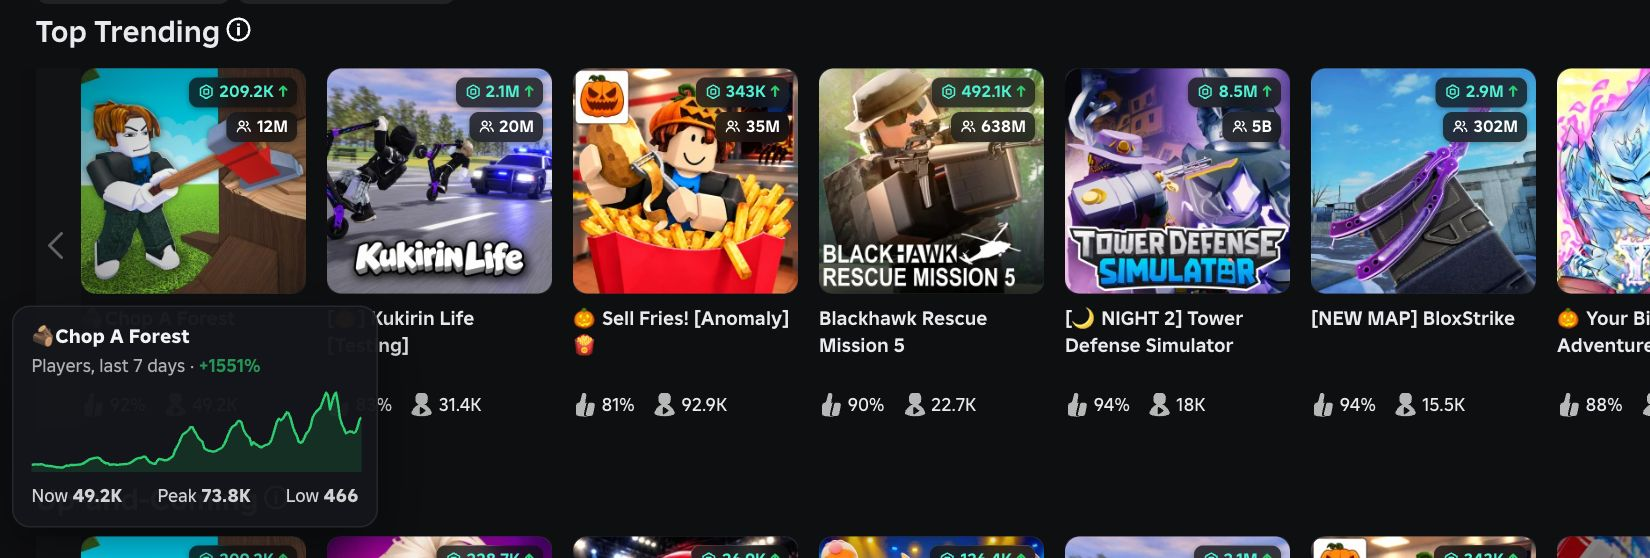
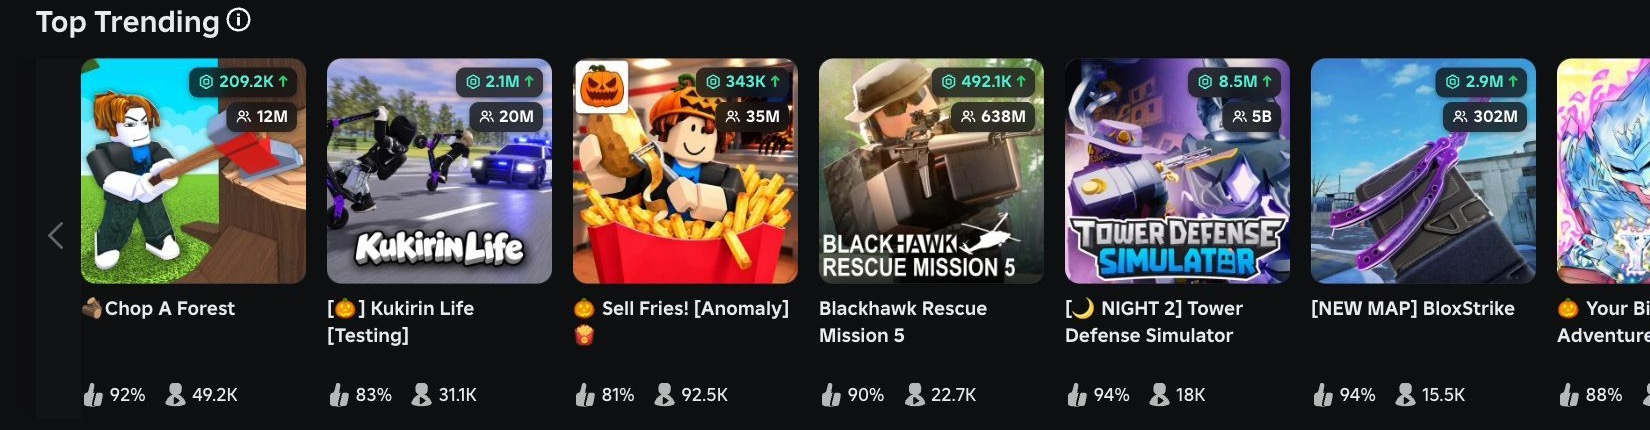
Game card graph: open it from the stats pills and show it beside the card, so Roblox's hover card stays usable

diff --git a/extensions/theme/stats.js b/extensions/theme/stats.js
@@ -1,6 +1,6 @@
 /* Game stats on roblox.com from Creator Exchange (creatorexchange.io): estimated
    revenue and its trend plus total visits on every game card, and a stats strip on
-   game pages, a 7-day player sparkline when you hover a card, a sort control on
+   game pages, a 7-day player graph when you point at a card's stats, a sort control on
    Charts, and a watchlist (star on the game page, listed in the popup). The numbers
    come from background.js. chrome.storage.sync: { stats, sort, watch: [{ id, place, name }] }.
 
@@ -58,9 +58,9 @@
   function cardHtml(s) {
     return (
       (watched.has(s.universeId) ? '<span class="rcx-pill rcx-star" title="On your watchlist">★</span>' : "") +
-      `<span class="rcx-pill rcx-rev" title="Estimated revenue (Creator Exchange)${trendTitle(s.revenueTrend)}">` +
-      `${ICON.robux}${fmt(s.revenue)}${arrow(s.revenueTrend)}</span>` +
-      `<span class="rcx-pill" title="${s.visits != null ? Number(s.visits).toLocaleString() : "?"} visits (Creator Exchange)">${ICON.visits}${fmt(s.visits, 0)}</span>`
+      // exact numbers and the player graph open when you point at these (showSpark)
+      `<span class="rcx-pill rcx-rev">${ICON.robux}${fmt(s.revenue)}${arrow(s.revenueTrend)}</span>` +
+      `<span class="rcx-pill">${ICON.visits}${fmt(s.visits, 0)}</span>`
     );
   }
 
@@ -280,34 +280,47 @@
     if (!id || !st || st.missing) return;
     sparkFor = a;
     const h = await ask({ type: "rcx-history", id });
-    if (sparkFor !== a || !h || !h.points || h.points.length < 3) return;
-    const pts = h.points, ys = pts.map((p) => p[1]);
-    const now = ys[ys.length - 1], change = ys[0] ? ((now - ys[0]) / ys[0]) * 100 : null;
+    if (sparkFor !== a) return;
     const el = spark();
+    let graph = "";
+    if (h?.points?.length >= 3) {
+      const pts = h.points, ys = pts.map((p) => p[1]);
+      const now = ys[ys.length - 1], change = ys[0] ? ((now - ys[0]) / ys[0]) * 100 : null;
+      graph =
+        `<div class="rcx-spark-sub">Players, last 7 days` +
+        (change == null ? "" : ` · <span class="${change >= 0 ? "rcx-up" : "rcx-down"}">${pct(change)}</span>`) + `</div>` +
+        sparkSvg(pts, 220, 56) +
+        `<div class="rcx-spark-row"><span>Now <b>${fmt(now)}</b></span><span>Peak <b>${fmt(Math.max(...ys))}</b></span><span>Low <b>${fmt(Math.min(...ys))}</b></span></div>`;
+    }
     el.innerHTML =
       `<div class="rcx-spark-title">${esc(st.name || nameOf(a))}</div>` +
-      `<div class="rcx-spark-sub">Players, last 7 days` +
-      (change == null ? "" : ` · <span class="${change >= 0 ? "rcx-up" : "rcx-down"}">${pct(change)}</span>`) + `</div>` +
-      sparkSvg(pts, 220, 56) +
-      `<div class="rcx-spark-row"><span>Now <b>${fmt(now)}</b></span><span>Peak <b>${fmt(Math.max(...ys))}</b></span><span>Low <b>${fmt(Math.min(...ys))}</b></span></div>`;
+      `<div class="rcx-spark-facts"><div><i>Est. revenue</i><b>R$ ${fmt(st.revenue)}</b>${arrow(st.revenueTrend)}` +
+      (st.revenueTrend == null ? "" : ` <span class="${st.revenueTrend >= 0 ? "rcx-up" : "rcx-down"}">${pct(st.revenueTrend)}</span>`) +
+      `</div><div><i>Visits</i><b>${fmt(st.visits, 1)}</b></div></div>` + graph;
+    // beside the card, not over it: Roblox's own hover card (Play button) opens below the thumbnail
     const r = (a.querySelector(THUMB) || a).getBoundingClientRect();
-    const W = 244, H = el.offsetHeight || 140;
-    let left = Math.min(Math.max(8, r.left + r.width / 2 - W / 2), innerWidth - W - 8);
-    let top = r.bottom + 8;
-    if (top + H > innerHeight - 8) top = Math.max(8, r.top - H - 8);
+    const W = 244, H = el.offsetHeight || 160;
+    let left = r.right + 10, top = Math.min(Math.max(8, r.top), innerHeight - H - 8);
+    if (left + W > innerWidth - 8) left = r.left - W - 10;
+    if (left < 8) { // no room on either side: above the thumbnail
+      left = Math.min(Math.max(8, r.left + r.width / 2 - W / 2), innerWidth - W - 8);
+      top = Math.max(8, r.top - H - 8);
+    }
     el.style.left = left + "px";
     el.style.top = top + "px";
     el.classList.add("rcx-show");
   }
 
+  // only the stats pills in the thumbnail's corner open it, so hovering a card
+  // still leaves Roblox's hover card and its Play button alone
   document.addEventListener("mouseover", (e) => {
     if (!on) return;
-    const a = e.target.closest?.("a.game-card-link");
+    const a = e.target.closest?.(".rcx-card")?.closest("a.game-card-link") || null;
     if (a === sparkFor) return;
     hideSpark();
     if (a) {
       sparkFor = a;
-      sparkTimer = setTimeout(() => showSpark(a), 450);
+      sparkTimer = setTimeout(() => showSpark(a), 250);
     }
   }, true);
   addEventListener("scroll", hideSpark, true);

diff --git a/extensions/theme/stats.css b/extensions/theme/stats.css
@@ -87,6 +87,9 @@ html:not(.rcx-on) #rcx-sort, html:not(.rcx-on) #rcx-spark { display: none !impor
 #rcx-spark.rcx-show { opacity: 1; transform: none; }
 .rcx-spark-title { font-weight: 800; font-size: 13px; white-space: nowrap; overflow: hidden; text-overflow: ellipsis; }
 .rcx-spark-sub { margin: 2px 0 8px; opacity: .7; }
+.rcx-spark-facts { display: grid; grid-template-columns: 1fr auto; gap: 12px; margin: 8px 0 10px; white-space: nowrap; }
+.rcx-spark-facts i { display: block; font-style: normal; font-size: 11px; opacity: .7; margin-bottom: 1px; }
+.rcx-spark-facts b { font-weight: 800; font-size: 14px; }
 #rcx-spark svg { display: block; }
 #rcx-spark svg .rcx-line { fill: none; stroke: currentColor; stroke-width: 1.6; stroke-linejoin: round; }
 #rcx-spark svg .rcx-area { fill: currentColor; opacity: .14; stroke: none; }

diff --git a/docs/index.html b/docs/index.html
@@ -50,11 +50,11 @@
             <h3>Game stats on every card</h3>
             <p>Every game card shows its estimated revenue with a trend arrow, plus total visits.</p>
             <ul>
-              <li>Hover a card for a 7-day player graph.</li>
+              <li>Point at a card's stats for exact numbers and a 7-day player graph.</li>
               <li>Sort the Games page by revenue, visits or what's rising.</li>
             </ul>
           </div>
-          <img class="shot" src="img/games-cards.jpg" alt="Game cards with revenue and visit pills" loading="lazy">
+          <img class="shot" src="img/games-cards.jpg" alt="Game cards with revenue and visit pills in the corner" loading="lazy">
         </div>
 
         <div class="row flip">
